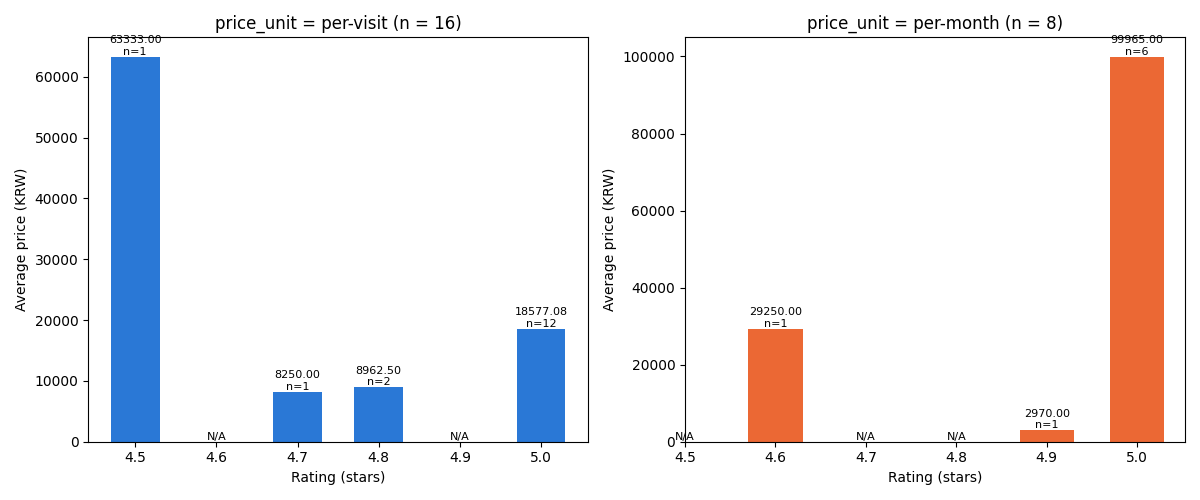
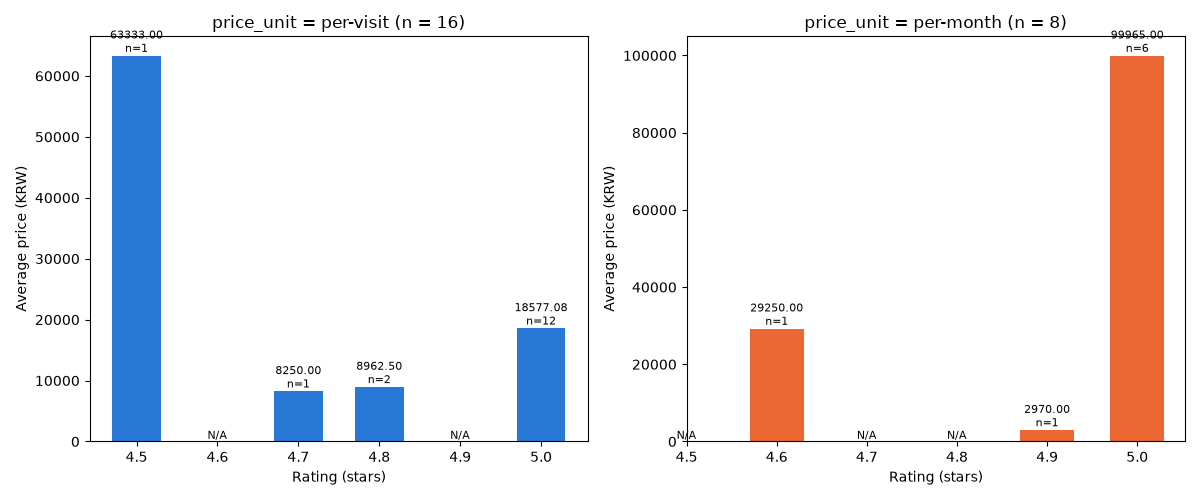
Add README run guide and refresh unit-split charts

diff --git a/README.md b/README.md
@@ -1,0 +1,26 @@
+## 실행 안내
+
+### 1. 다시 모으기
+
+scripts 폴더의 파일을 번호 순서대로 실행합니다. (Windows는 `python`, Mac은 `python3`)
+
+| 순서 | 파일 | 무엇을 만드는지 | 실행 명령 | 확인 여부 |
+|---|---|---|---|---|
+| 00 | scripts/00_env_check.py | 환경 확인용 가상 예시 표를 출력한다 (실제 수집이 아니다) | `python scripts/00_env_check.py` / `python3 scripts/00_env_check.py` | 확인 안 함 |
+| 01 | scripts/01_collect_p1.py | 목록 페이지 1개를 수집해 data/raw_p1.csv를 만든다 — 사이트에 요청을 보낸다 · 페이지 수를 늘리지 않는다 | `python scripts/01_collect_p1.py` / `python3 scripts/01_collect_p1.py` | 확인 안 함 |
+| 02 | scripts/02_collect.py | 목록 API를 offset 0·20·40 최대 3묶음까지 호출해 data/raw.csv를 만든다 — 사이트에 요청을 보낸다 · 페이지 수를 늘리지 않는다 | `python scripts/02_collect.py` / `python3 scripts/02_collect.py` | 확인 안 함 |
+| 03 | scripts/03_clean.py | data/raw.csv를 정제해 data/clean.csv를 만든다 (필수값 빈칸·중복 행 제외) | `python scripts/03_clean.py` / `python3 scripts/03_clean.py` | 확인함 — 방금 실행: 오류 없이 끝남 · raw 38행 → 정제 24행 |
+| 04 | scripts/04_stats.py | data/clean.csv의 price 열 통계(개수·최소·최대·평균·중앙값)를 출력한다 | `python scripts/04_stats.py` / `python3 scripts/04_stats.py` | 확인 안 함 |
+| 05 | scripts/05_hist.py | data/clean.csv 전체 가격 히스토그램을 그려 charts/hist.png로 저장한다 | `python scripts/05_hist.py` / `python3 scripts/05_hist.py` | 확인 안 함 |
+| 06 | scripts/06_by_category.py | price_unit(회/월)별 rating 평균 막대그래프를 그려 charts/by_category.png로 저장한다 | `python scripts/06_by_category.py` / `python3 scripts/06_by_category.py` | 확인 안 함 |
+| 06 | scripts/06_hist_by_unit.py | price_unit(회/월)별로 나눈 가격 히스토그램을 그려 charts/hist_by_unit.png로 저장한다 | `python scripts/06_hist_by_unit.py` / `python3 scripts/06_hist_by_unit.py` | 확인 안 함 |
+| 07 | scripts/07_collect_api.py | 목록 API를 offset 0부터 결과가 없어질 때까지 반복 호출해 data/raw_api_full.csv를 만든다 — 사이트에 요청을 보낸다 · 페이지 수를 늘리지 않는다 | `python scripts/07_collect_api.py` / `python3 scripts/07_collect_api.py` | 확인 안 함 |
+| 07 | scripts/07_export_json.py | data/clean.csv에서 name·price·rating·detail_url 네 열만 뽑아 data/data.json을 만든다 | `python scripts/07_export_json.py` / `python3 scripts/07_export_json.py` | 확인 안 함 |
+
+### 2. 화면에 반영하기
+
+새로 만든 data/data.json과 charts 폴더 이미지를 커밋·푸시하면, Vercel이 이를 감지해 자동으로 다시 배포한다.
+
+### 3. AI 연결
+
+api/recommend.js는 Vercel 환경변수 `GEMINI_API_KEY`를 읽어 Gemini API를 호출한다. Vercel 프로젝트 설정에서 환경변수 이름 `GEMINI_API_KEY`에 열쇠 값을 넣고 Redeploy하면 적용된다. (열쇠 값 자체는 여기에 적지 않는다.)
